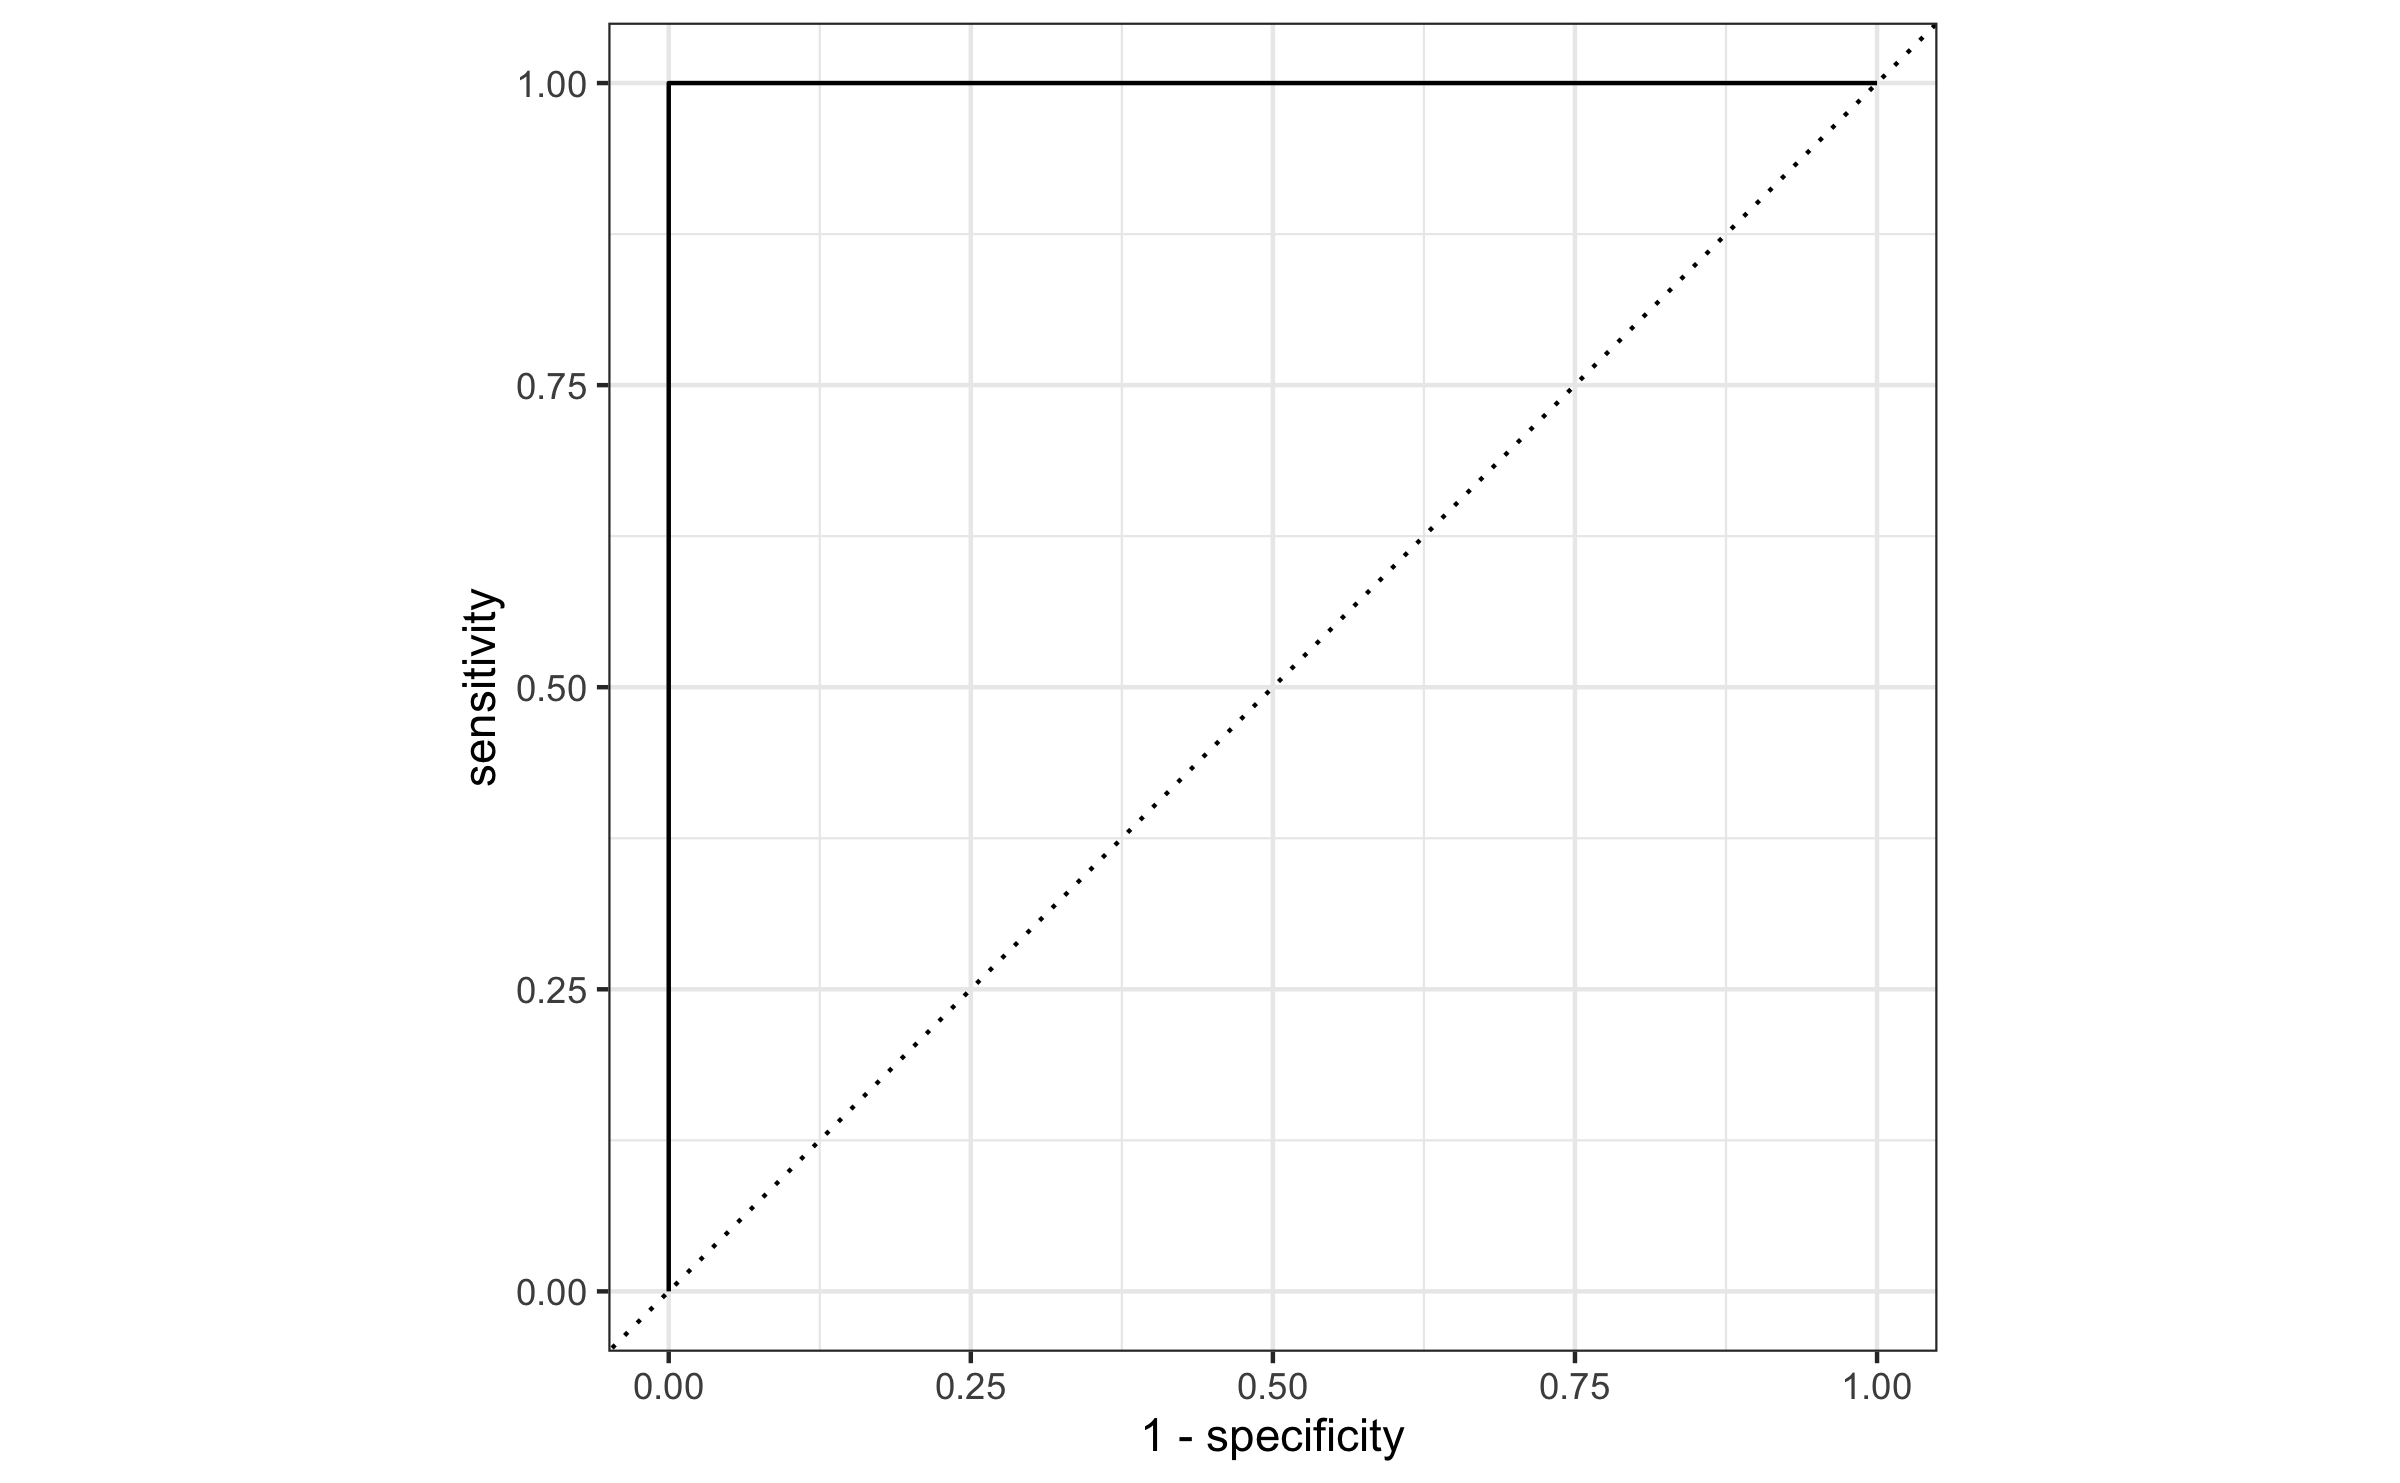
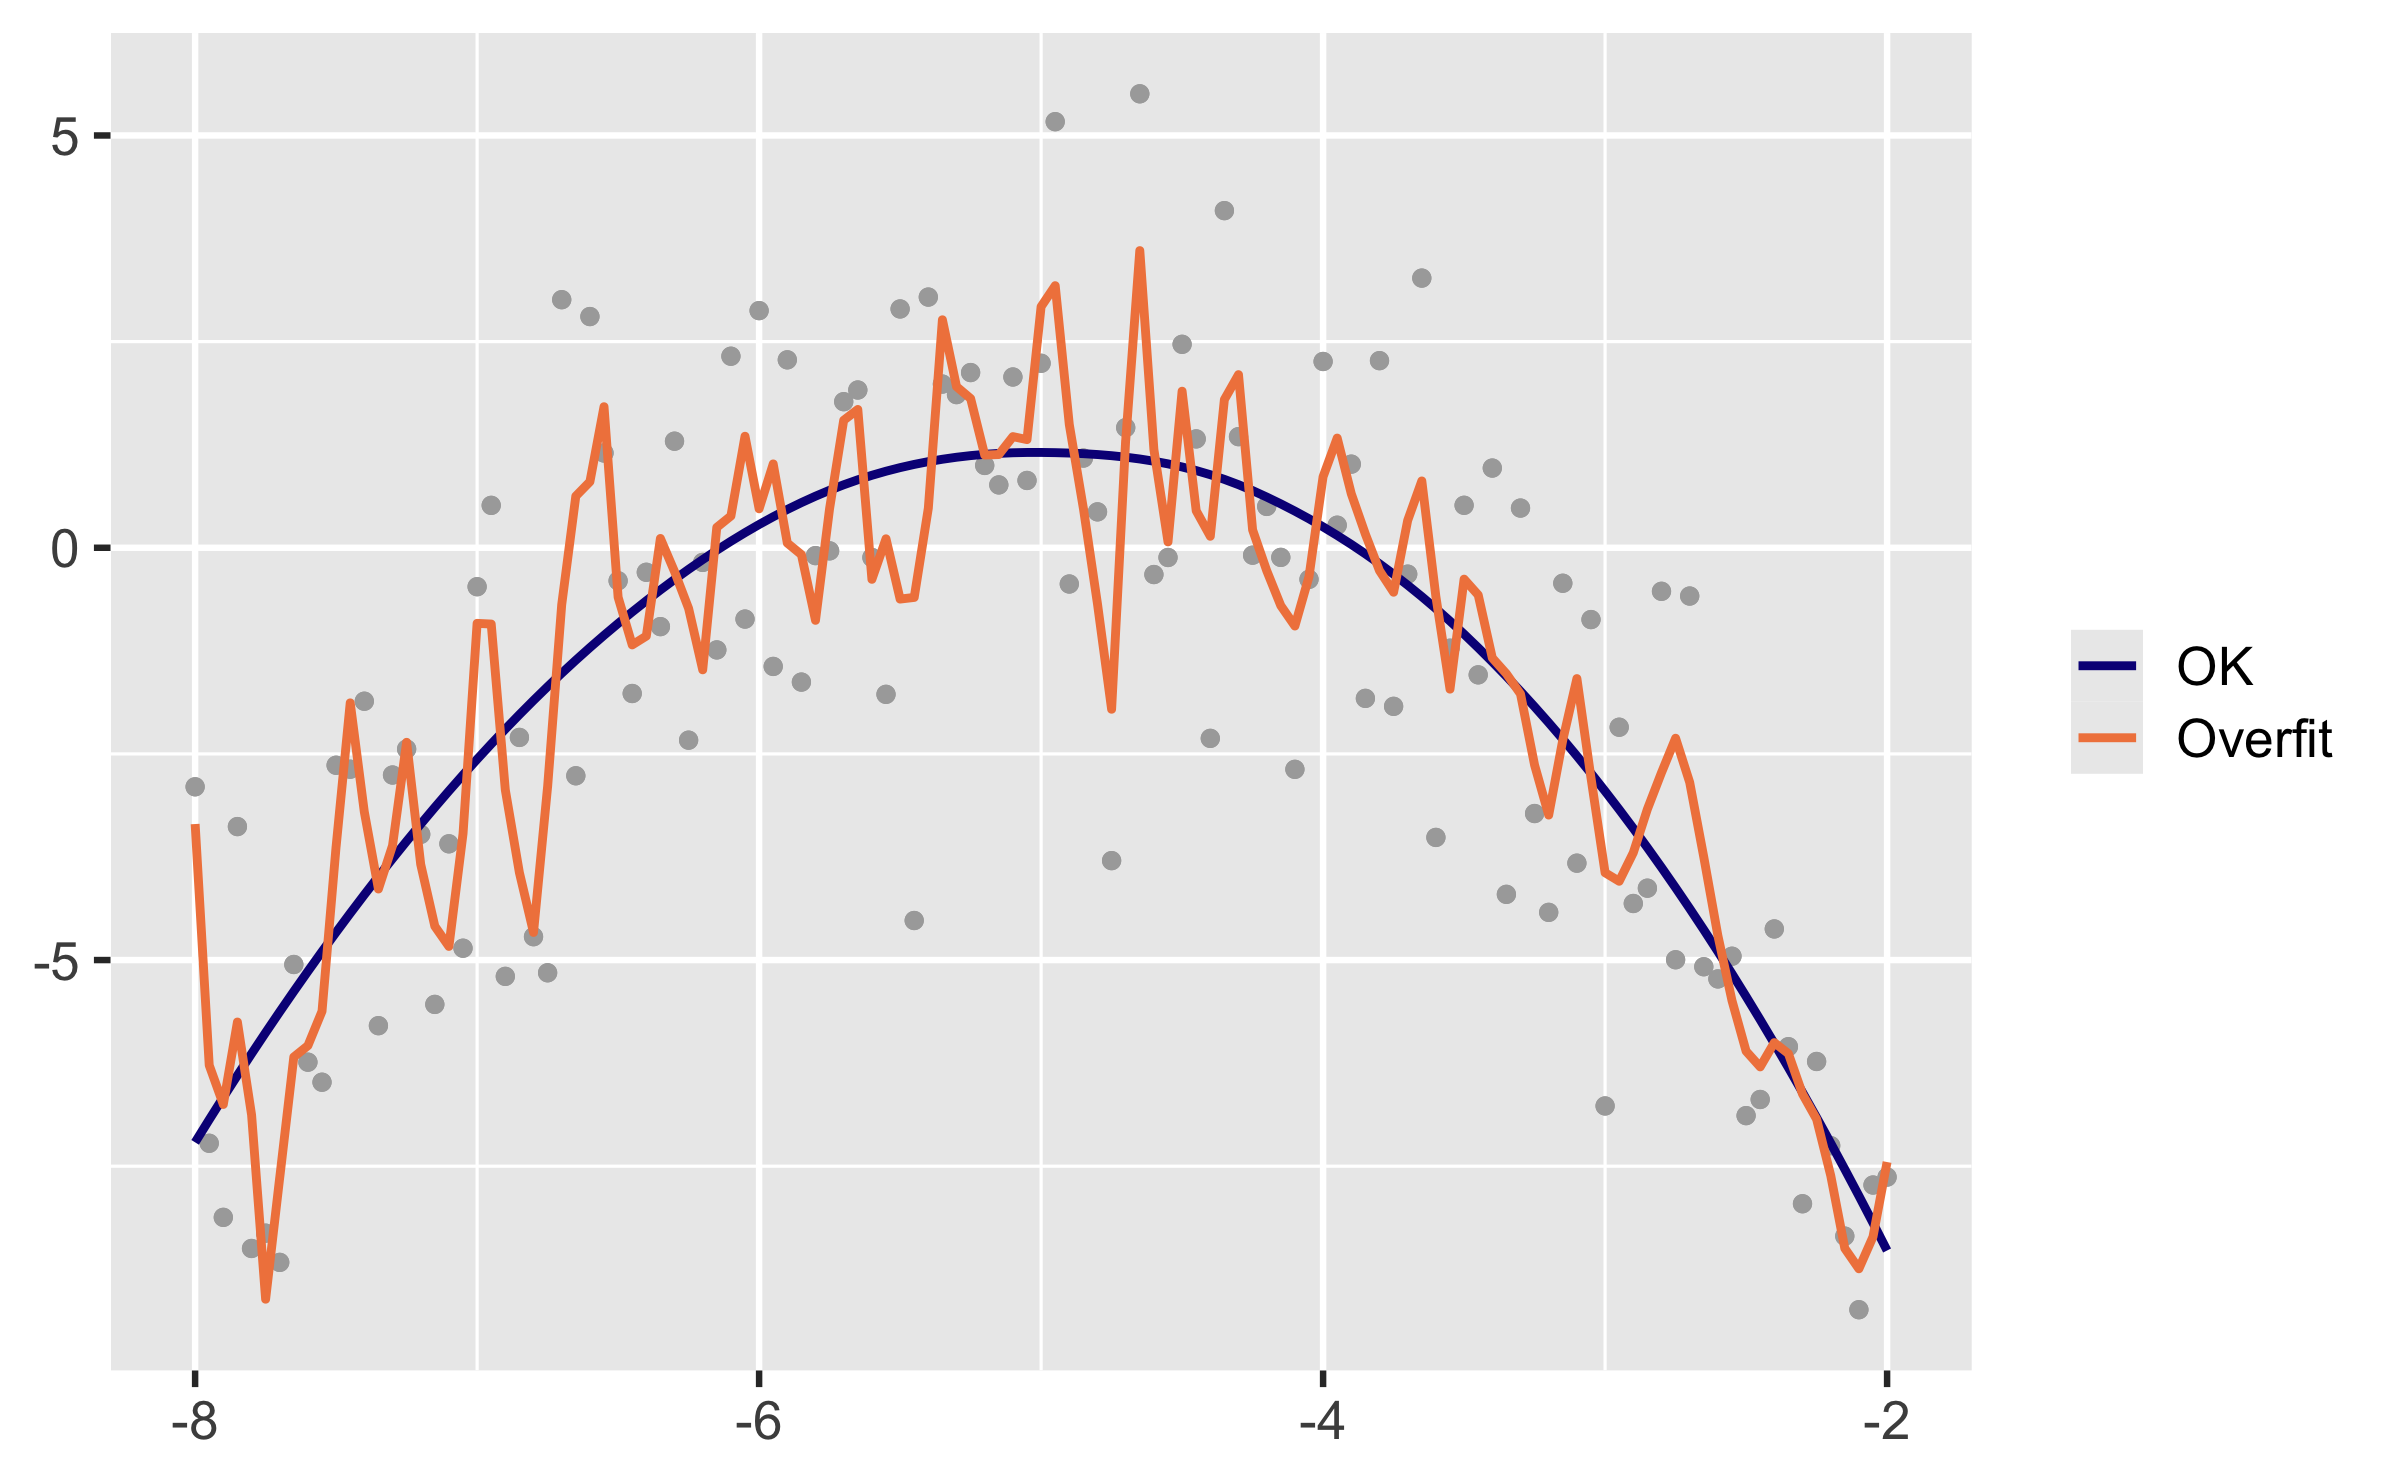
L14 slides updated.

diff --git a/teaching/bst430_fall25/lectures/l14-prediction-logistic.html b/teaching/bst430_fall25/lectures/l14-prediction-logistic.html
@@ -30,7 +30,7 @@ class: ur-title, center, middle, title-slide
 ### U of Rochester
 ]
 .date[
-### 2021-11-14 (updated: 2025-10-22)
+### 2021-11-14 (updated: 2025-10-23)
 ]
 
 ---
@@ -65,6 +65,20 @@ The dataset is available from the `openintro` package.
 - A simple approach: choose a single threshold probability and any email that exceeds that probability is flagged as spam
 
 ---
+
+## Quiz
+
+Load the `openintro` package. This will make the `email` data available.
+
+&gt;How many emails are there in total? How many of them are spam?
+
+&gt;Fit a linear model to this data. Which variable should be used as the outcome (`\(y\)`)? Select 5-10 variables to use as predictors (`\(x\)`). Briefly justify your choices.
+
+&gt;Perform model diagnostics. Plot 1) the fitted values vs the response (outcome) variable, 2) the fitted values vs the residuals, and 3) a histogram of the residuals. 
+
+&gt;Why is fitting a linear model a bad idea?
+
+---
 class: middle
 
 # Logistic regression
@@ -73,13 +87,13 @@ class: middle
 
 ## Generalized Linear Models (GLMs)
 
-- Logistic regression is a *generalized linear model(GLM)* used to model a binary categorical outcome using numerical and categorical predictors
+- A generalized linear model (GLM) is an extension of the linear model where we model the mean of a variable as a function of predictors 
 
-- A GLM is an extension of the linear model where we model the mean function (expectation). 
+- Linear model: `\(Y_i | \mathbf{x}_i \sim N(\mathbf{x}_i \beta, \sigma^2)\)` and `\(E(Y_i|\mathbf{x}_i) = \mathbf{x}_i \beta\)`.
 
-- Linear model: `\(Y|\mathbf{x}_i \sim N(\mathbf{x}_i \beta, \sigma^2)\)` and `\(E(Y_i|\mathbf{x}_i) = \mathbf{x}_i \beta\)`.
-
-- GLM generalizes linear model to  `$$g(E(Y_i|x_i)) = \eta_i = \mathbf{x}_i \beta,$$` and `\(Y|X \sim\)` some Exponential-Family distribution. Here, `\(g\)` is referred to as a **link** function.
+- GLM generalizes the linear model  `$$g(E(Y_i|x_i)) = \eta_i = \mathbf{x}_i \beta,$$` and `\(Y|X \sim\)` some **Exponential-Family** distribution. 
+- Exponential family includes, normal, Bernoulli, bionimal, Poisson, and many of the familiar distributions.
+- `\(g\)` is referred to as a **link** function.
 
 &lt;!--
 - Whereby the glm allows non-linear effects in `\(\beta\)`, and since the conditional distribution of `\(Y|X\)` can include all sorts of interesting families, it also permits non-constant residual variance.
@@ -89,36 +103,41 @@ class: middle
 
 ## The logistic regression model
 
-Given observations `\(y_i \in \{0, 1\}\)`, we model them as Bernoulli trials with probability of success given by `\(p_i\)`.
+Logistic regression is a type of GLM used to model a binary categorical outcomes `\(y_i \in \{0, 1\}\)`. 
+
+We can model them using a **Bernoulli** distribution with probability of success given by `\(p_i\)`:
 
 - `\(y_i|x_i \sim \text{Bernoulli}(p_i)\)`
 
-We want to model `\(p_i\)` as a function of predictors `\(x_i\)`. Under the GLM framework, we link `\(p_i\)` to the predictors `\(x_i\)` via a link function `\(g\)`:
+To model `\(p_i\)` as a function of predictors `\(x_i\)`. Under the GLM framework, we link `\(p_i\)` to the predictors `\(x_i\)` via a link function `\(g\)`:
 
-- `\(g(p_i) = \eta_i\)`,
-- `\(\eta_i = \beta_0+\beta_1 x_{1,i} + \cdots + \beta_n x_{n,i}\)` is a linear function of the predictors.
+- `\(g(p_i) = \eta_i = \beta_0+\beta_1 x_{1,i} + \cdots + \beta_n x_{n,i}\)`,
+
+&gt;What is a reasonable choice of `\(g\)` here?
 
 ---
 
 ## Softmax function
 
 - The softmax (aka expit) function is widely used to model probability distribution over categorical outcomes. 
-- Given an outcome variable `\(Y_i\)` with 2 classes (i.e., 0/1 or spam/not spam), the softmax function is given by,
+- Given an outcome variable `\(Y\)` with 2 classes (i.e., 0/1 or spam/not spam), the softmax function is given by,
 
 `\begin{align}
-\mathbb{P}(Y_i = 1) = p_i = \frac{\exp(\eta_i)}{1 + \exp(\eta_i)}.
+\mathbb{P}(Y = 1) = p(x) = \frac{\exp(\beta^{\top} x)}{1 + \exp(\beta^{\top} x)}.
 \end{align}`
 
 ---
 
 ### The Bernoulli GLM with logit link
 
-- To specify the Logistic model we just need to define a reasonable link function that connects `\(\eta_i\)` to `\(p_i\)`: take the inverse of the softmax.
+- Softmax gives us a way to link `\(p_i\)` to `\(\eta_i\)` but we need: `\(g(p_i) = \eta_i\)`.
+- Taking the log-odds (logit) of both sides of the softmax function gives us the logit function:
 
 --
 - **Logit function:** For `\(0\le p \le 1\)`
 
 `$$g(p) = logit(p) = \log\left(\frac{p}{1-p}\right)$$`
+- The logit function takes a value between 0 and 1 and maps it to a value between `\(-\infty\)` and `\(\infty\)`
 
 
 ---
@@ -129,19 +148,15 @@ We want to model `\(p_i\)` as a function of predictors `\(x_i\)`. Under the GLM 
 
 ---
 
-## Properties of the logit
+## Quiz
 
-- The logit function takes a value between 0 and 1 and maps it to a value between `\(-\infty\)` and `\(\infty\)`
-
---
-- Inverse of the logit function is the softmax function:
-`$$g^{-1}(x) = \frac{\exp(x)}{1+\exp(x)} = \frac{1}{1+\exp(-x)}$$`
-
---
-- The expit function takes a value between `\(-\infty\)` and `\(\infty\)` and maps it to a value between 0 and 1
+- Sample `\(x_i\)` from a standard normal distribution. Set `\(\beta_0 = 0\)` and `\(\beta_1 = 2\)`. Use `\(n=100\)`.
+- Compute `\(p_i\)` and `\(logit(p_i)\)`. Verify: `\(\log(p_i/1-p_i) = \beta_1 x_i\)`.
+- Now, generate `\(y_i\)` from a Bernoulli distribution with probability `\(p_i\)`. 
+- Plot `\(p_i\)` vs `\(x_i\)` and `\(y_i\)` vs `\(x_i\)`.
+- If you are given `\(x^* &gt; 0\)`, what would be your prediction for `\(y^*\)` how about for `\(x^* &lt; 0\)` and `\(x^* = 0\)`?
 
 ---
-
 
 ## Modeling spam
 
@@ -154,6 +169,14 @@ In R we fit a GLM in the same way as a linear model except we
 --
 
 - When using `tidymodels`, specify the model with `logistic_reg()`
+
+---
+
+## Quiz
+
+- Fit `glm` on the generated data `\(x_i, y_i\)`. (Do not include the intercept).
+- Compare the true coefficient `\(\beta\)` to the estimate. 
+- Now, increase the number of data points from `\(n=100\)` to `\(n=200, 400, 800, 1600\)`. Re-fit the model for each values of `\(n\)`. Notice any trend?
 
 ---
 
@@ -201,7 +224,7 @@ class: middle
   - Validation set is used for model tuning and selection
   
 - **Testing set:**
-  - Held in reserve to determine efficacy of one or two chosen models
+  - Held in reserve to evaluate models
   - Critical to look at it only once after training, otherwise it becomes part of the modeling process
   - Remainder of the data (usually 20%)
   
@@ -945,6 +968,12 @@ email_pred %&gt;%
 
 ---
 
+## Quiz
+
+- Which cutoff probability would you choose and why?
+
+---
+
 ## Evaluating performance on training data
 
 -  The training set does not have the capacity to be a good arbiter of performance.
@@ -1154,6 +1183,12 @@ overpredict = predict(overfit, train_data_small, type = "prob") %&gt;%
 ## 1 roc_auc binary             1
 ```
 ]
+
+---
+
+## Model flexibility and training optimism
+
+&lt;img src="l14-prediction-logistic_files/figure-html/unnamed-chunk-49-1.png" width="70%" style="display: block; margin: auto;" /&gt;
 
 ---
 
